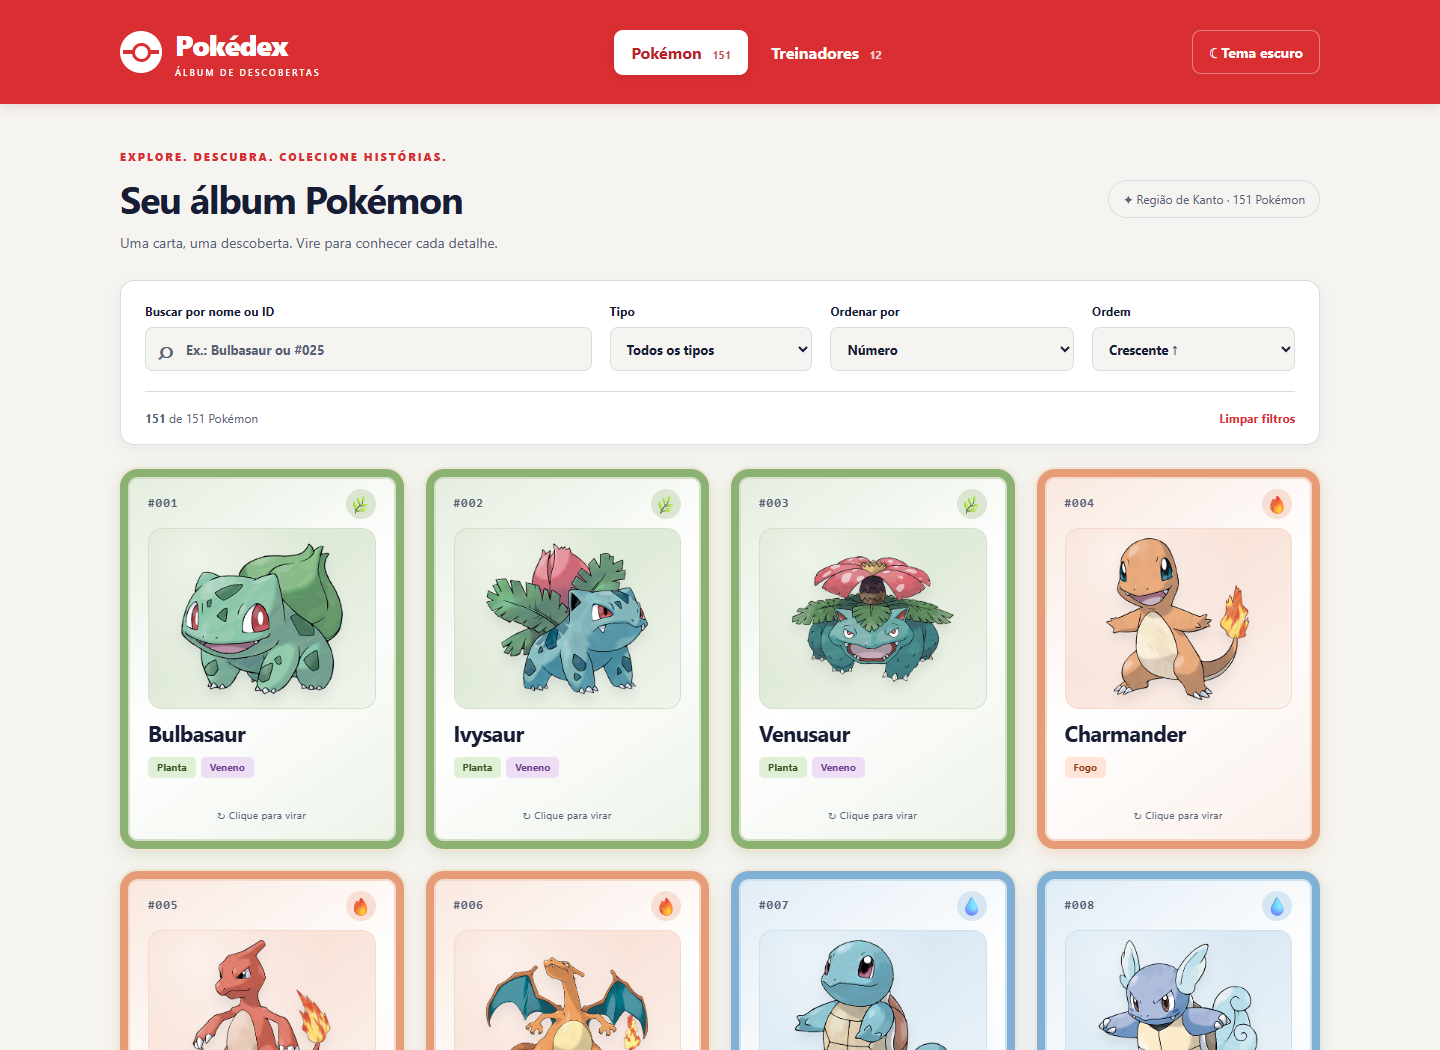
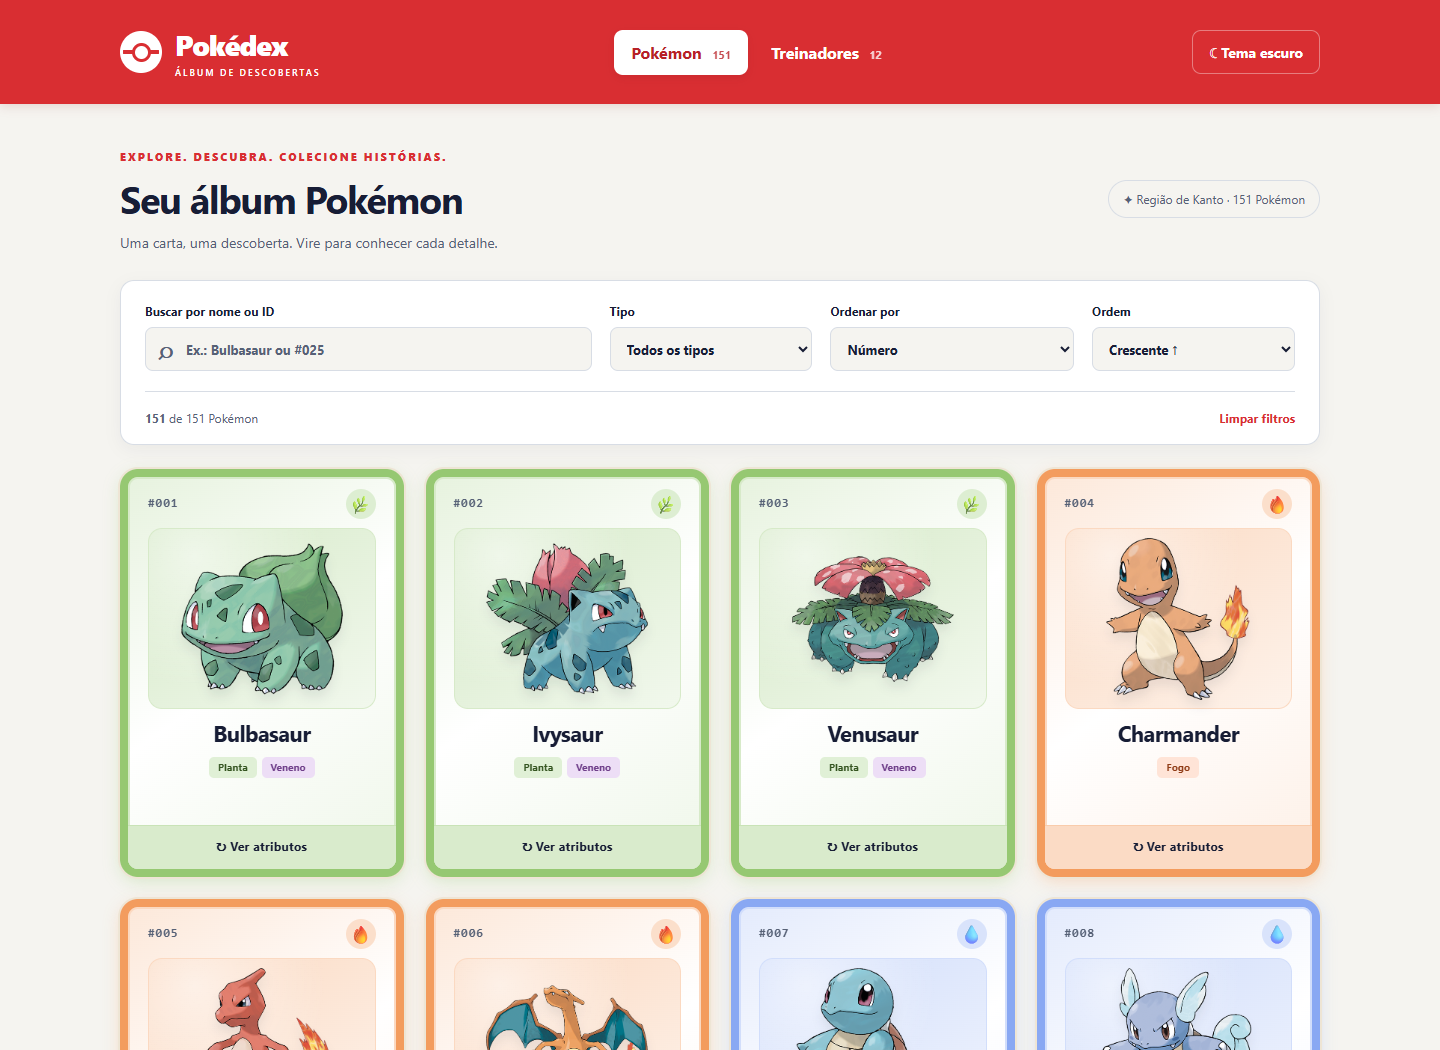
fix(ui): centraliza conteúdo e aplica cores dos tipos aos atributos

Changed region(s): [[0.0625, 0.4267, 0.9375, 1.0]]

diff --git a/src/css/cards.css b/src/css/cards.css
@@ -5,8 +5,8 @@
   border: 0;
   background: none;
   width: 100%;
-  height: 380px;
-  text-align: left;
+  height: 408px;
+  text-align: center;
   perspective: 1100px;
   border-radius: 16px;
   transition: transform 0.2s;
@@ -30,7 +30,7 @@
   inset: 0;
   display: flex;
   flex-direction: column;
-  align-items: flex-start;
+  align-items: center;
   padding: 19px 20px;
   background: linear-gradient(
     145deg,
@@ -124,6 +124,7 @@
 }
 .types {
   display: flex;
+  justify-content: center;
   flex-wrap: wrap;
   gap: 5px;
 }
@@ -194,6 +195,20 @@
   padding-top: 14px;
   letter-spacing: 0.3px;
 }
+
+.pokemon-card .card-hint {
+  width: calc(100% + 40px);
+  margin-inline: -20px;
+  margin-bottom: -19px;
+  padding: 12px;
+  min-height: 44px;
+  flex-shrink: 0;
+  background: color-mix(in srgb, var(--accent) 28%, var(--surface));
+  border-top: 1px solid color-mix(in srgb, var(--accent) 40%, var(--surface));
+  color: var(--text);
+  font-size: 12px;
+  font-weight: 650;
+}
 .stats {
   display: flex;
   flex-direction: column;
@@ -207,6 +222,7 @@
   font-size: 11px;
   gap: 8px;
   margin-bottom: 4px;
+  text-align: left;
 }
 .stat-heading strong {
   font-variant-numeric: tabular-nums;
@@ -232,58 +248,58 @@
   padding-top: 8px;
 }
 .accent-grass {
-  --accent: #6c9c4b;
+  --accent: #78b94a;
 }
 .accent-fire {
-  --accent: #df8050;
+  --accent: #f08030;
 }
 .accent-water {
-  --accent: #5c9acb;
+  --accent: #6890f0;
 }
 .accent-poison {
-  --accent: #a075ba;
+  --accent: #a040a0;
 }
 .accent-electric {
-  --accent: #c7a72d;
+  --accent: #e5bf24;
 }
 .accent-ground {
-  --accent: #ab9464;
+  --accent: #d1b05c;
 }
 .accent-flying {
-  --accent: #8e8fbe;
+  --accent: #a890f0;
 }
 .accent-psychic {
-  --accent: #ce779d;
+  --accent: #f05888;
 }
 .accent-fighting {
-  --accent: #bd7669;
+  --accent: #c03028;
 }
 .accent-steel {
-  --accent: #7b879c;
+  --accent: #9a9ab3;
 }
 .accent-normal {
-  --accent: #b58e9f;
+  --accent: #96999e;
 }
 .accent-bug {
-  --accent: #92a845;
+  --accent: #a0b820;
 }
 .accent-ice {
-  --accent: #58b7bd;
+  --accent: #70c8c8;
 }
 .accent-ghost {
-  --accent: #8273ae;
+  --accent: #705898;
 }
 .accent-rock {
-  --accent: #a59160;
+  --accent: #b8a038;
 }
 .accent-dragon {
-  --accent: #8274cc;
+  --accent: #7050d8;
 }
 .accent-fairy {
   --accent: #dc8fb5;
 }
 .accent-dark {
-  --accent: #827681;
+  --accent: #705848;
 }
 @media (prefers-reduced-motion: reduce) {
   .card-rotator,

diff --git a/src/components/PokemonCard.jsx b/src/components/PokemonCard.jsx
@@ -59,7 +59,7 @@ export default function PokemonCard({ pokemon, flipped, onFlip, statMax }) {
           </span>
           <strong className="card-name">{pokemon.name}</strong>
           <TypeBadge types={pokemon.types} />
-          <span className="card-hint">↻ Clique para virar</span>
+          <span className="card-hint">↻ Ver atributos</span>
         </>
       }
       back={
@@ -82,7 +82,7 @@ export default function PokemonCard({ pokemon, flipped, onFlip, statMax }) {
               </span>
             ))}
           </span>
-          <span className="card-hint">↻ Clique para desvirar</span>
+          <span className="card-hint">↻ Ocultar atributos</span>
         </>
       }
     />

diff --git a/README.md b/README.md
@@ -28,6 +28,7 @@ O build fica em `dist/`. O preview normalmente usa **http://127.0.0.1:4173**. Os
 - Combine busca com tipo, inclusive tipos secundários, e ordene por número, nome ou qualquer um dos seis atributos, nos dois sentidos. Empates usam ID crescente. “Limpar filtros” preserva a ordenação.
 - Clique, Enter ou Espaço vira/desvira cada carta independentemente. Hover apenas destaca. Os versos mostram os seis valores originais e barras na mesma escala global, mesmo com filtros ativos.
 - As duas faces usam uma moldura colorida com contorno claro e brilho. A cor e o símbolo decorativo dos Pokémon acompanham o tipo principal; treinadores usam vermelho. A área da ilustração também recebe um fundo suave na cor do tipo.
+- O conteúdo das cartas é centralizado, com uma faixa “Ver atributos” na cor do tipo principal. A paleta representa os elementos do JSON, não a aparência dos Pokémon: Normal é cinza, Fogo é laranja, Água é azul e assim por diante. Em Pokémon com dois tipos, o primeiro define a moldura e a faixa; os dois continuam nas etiquetas.
 - A última carta Pokémon virada abre o painel de treinadores. Virar outra troca o contexto sem desvirar a anterior. Desvirar a carta vinculada fecha o painel; desvirar outra não interfere.
 - X/Escape fecha apenas o painel. Escape e o fechamento por teclado devolvem foco à carta vinculada. O painel não é modal, não captura foco e não tem temporizador.
 - Filtrar a carta vinculada para fora da lista ou trocar de aba fecha o painel. As viradas são preservadas; nenhum perfil anterior reabre automaticamente. Para reabrir o perfil de uma carta já virada, desvire e vire novamente.
